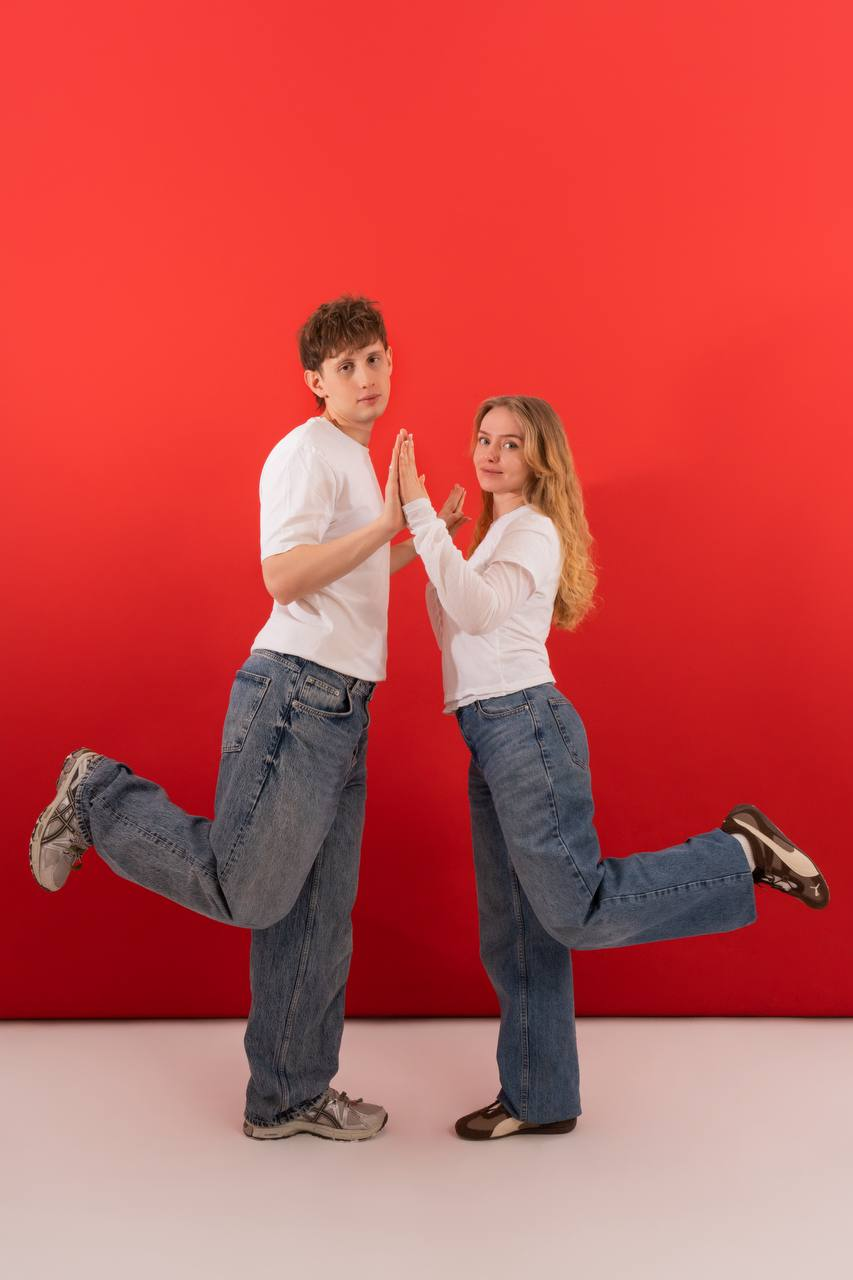
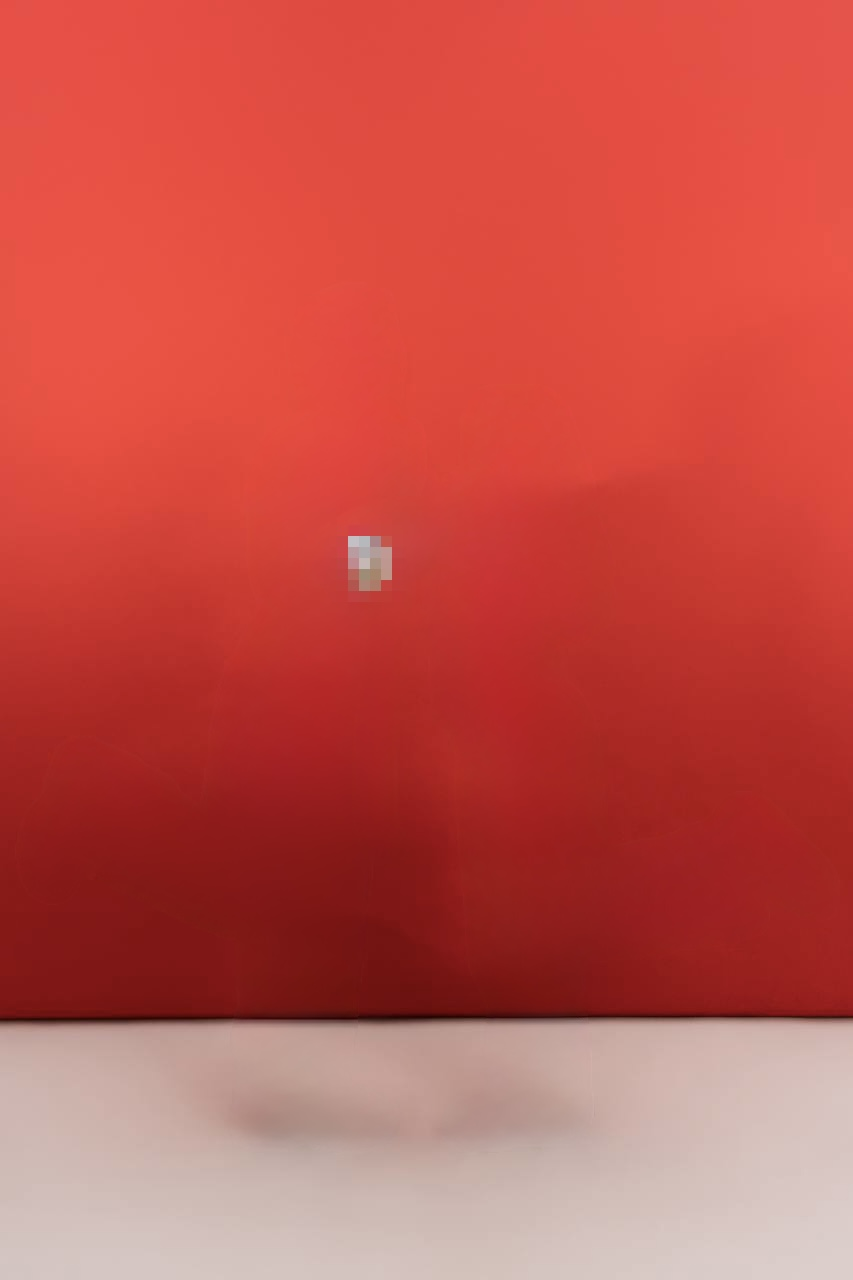
апдейт

Changed region(s): [[0.0, 0.2188, 1.0, 0.9062]]

diff --git a/styles/style.css b/styles/style.css
@@ -7,15 +7,15 @@ body {
   display: grid;
   /* grid-template-columns: 1fr 1fr; */
   /* gap: 60px; */
-  align-items: center;
+  /* align-items: center; */
   min-height: 100vh;
-  padding: 80px 40px;
+  /* padding: 80px 40px; */
 }
 
 .hero__collage {
   position: relative;
   width: 100%;
-  max-width: 420px;
+  /* max-width: 420px; */
   margin: 0 auto;
 }
 
@@ -24,6 +24,7 @@ body {
   background: #eee9df;
   padding: 18px;
   box-shadow:  0 12px 30px rgba(0, 0, 0, 0.2);
+  width: 260px;  
 }
 
 /* микро-пыль */
@@ -40,34 +41,70 @@ body {
 
 .photo {
   display: block;
-  width: 100%;
   position: relative;
-  z-index: 2;
+  width: 100%;
   height: auto;
-  /* padding: 8px; */
-  /* box-shadow: 0 10px 30px rgba(0, 0, 0, 0.15); */
-  /* background: #fff; */
+  z-index: 2;
   filter: contrast(1.05) saturate(0.9) brightness(1.02);
 }
 
 .photo-frame-1 {
-  transform: rotate(-4deg);
+  position: absolute;
+  top: 10%;
+  left: 74%;
+  transform: rotate(6deg);
+  aspect-ratio: 3/4;
 }
 
 .photo-frame-2 {
-  /* position: absolute; */
+  position: absolute;
   top: 80%;
-  left: 10%;
-  transform: rotate(3deg);
-  /* width: 90%; */
+  left: 58%;
+  transform: rotate(-6deg);
+  aspect-ratio: 1/1;
 }
 
 .photo-frame-3 {
-  /* position: absolute; */
-  top: 70%;
-  left: -10%;
+  position: absolute;
+  z-index: -1;
+  top: 158%;
+  left: 40%;
   transform: rotate(-6deg);
-  /* width: 85%; */
+  aspect-ratio: 3/4;
+}
+
+.photo-frame-4 {
+  position: absolute;
+  z-index: -2;
+  top: 10%;
+  left: 45%;
+  transform: rotate(-5deg);
+    aspect-ratio: 1/1;
+}
+
+.photo--2,
+.photo--4 { 
+  padding-bottom: 20px;
+}
+
+
+.photo-base {
+  width: 100%;
+  display: block;
+}
+
+.photo-foreground {
+  position: absolute;
+  bottom: -19px;
+  left: 51%;
+  transform: translateX(-50%);
+  width: 12 0%;
+  pointer-events: none;
+}
+
+.photo-mask {
+  position: relative;
+  overflow: hidden; /* ← ВОТ ГДЕ РЕЖЕМ */
 }
 
 .heart {
@@ -103,6 +140,16 @@ body {
   }
 }
 
+.hero__text {
+  display: flex;
+  flex-direction: column;
+  justify-content: flex-end;
+  margin-block-end: 38px;
+  margin-inline-start: 935px;
+  inline-size: 380px;
+
+}
+
 .hero__text h1 {
   margin-bottom: 24px;
   font-family: "Playfair Display", serif;
@@ -114,15 +161,21 @@ body {
   color: #8f3b2e;
 }
 
-.hero_meta {
-  margin-bottom: 32px;
+.hero__meta {
   font-size: 14px;
   letter-spacing: 0.08em;
   text-transform: uppercase;
 }
 
+.hero__text h1,
+.hero__meta {
+  margin-inline-start: 10px;
+}
+
 .hero__note {
-  font-size: 14px;
+  margin-block-start: 95px;
+  font-size: 16px;
+  inline-size: 290px;
 }
 
 .hero__note span {

diff --git a/index.html b/index.html
@@ -21,18 +21,25 @@
           <img src="images/photo2.jpg" alt="фотобудка" class="photo photo--2" />
         </div>  
         <div class="photo-frame photo-frame-3"> 
-          <img src="images/photo3.jpg" alt="фотобудка" class="photo photo--3" />
-        </div> 
+          <div class="photo-mask">
+            <img src="images/photo3.jpg" alt="фотобудка" class="photo photo--3 photo-base" />
+           </div>
+          <img src="images/photo3.png" alt="фотобудка" class="photo photo--3 photo-foreground" />
+
+        </div>
+        <div class="photo-frame photo-frame-4"> 
+          <img src="images/photo4.jpg" alt="фотобудка" class="photo photo--4" />
+        </div>  
 
         <!-- сердце как svg -->
-        <svg
+        <!-- <svg
           class="heart hand-drawn"
           viewBox="0 0 600 520"
           xmlns="http://www.w3.org/2000/svg"
           aria-hidden="true"
-        >
+        > -->
           <!-- основной штрих -->
-          <path
+          <!-- <path
             class="heart-line main"
             d="
               M300 470
@@ -43,13 +50,12 @@
             "
           />
 
-        </svg>
+        </svg> -->
       </div>
 
       <div class="hero__text">
         <h1>
-          Марк и Валерия<br />
-          женятся
+          Марк<br/> и Валерия
         </h1>
 
         <p class="hero__meta">
